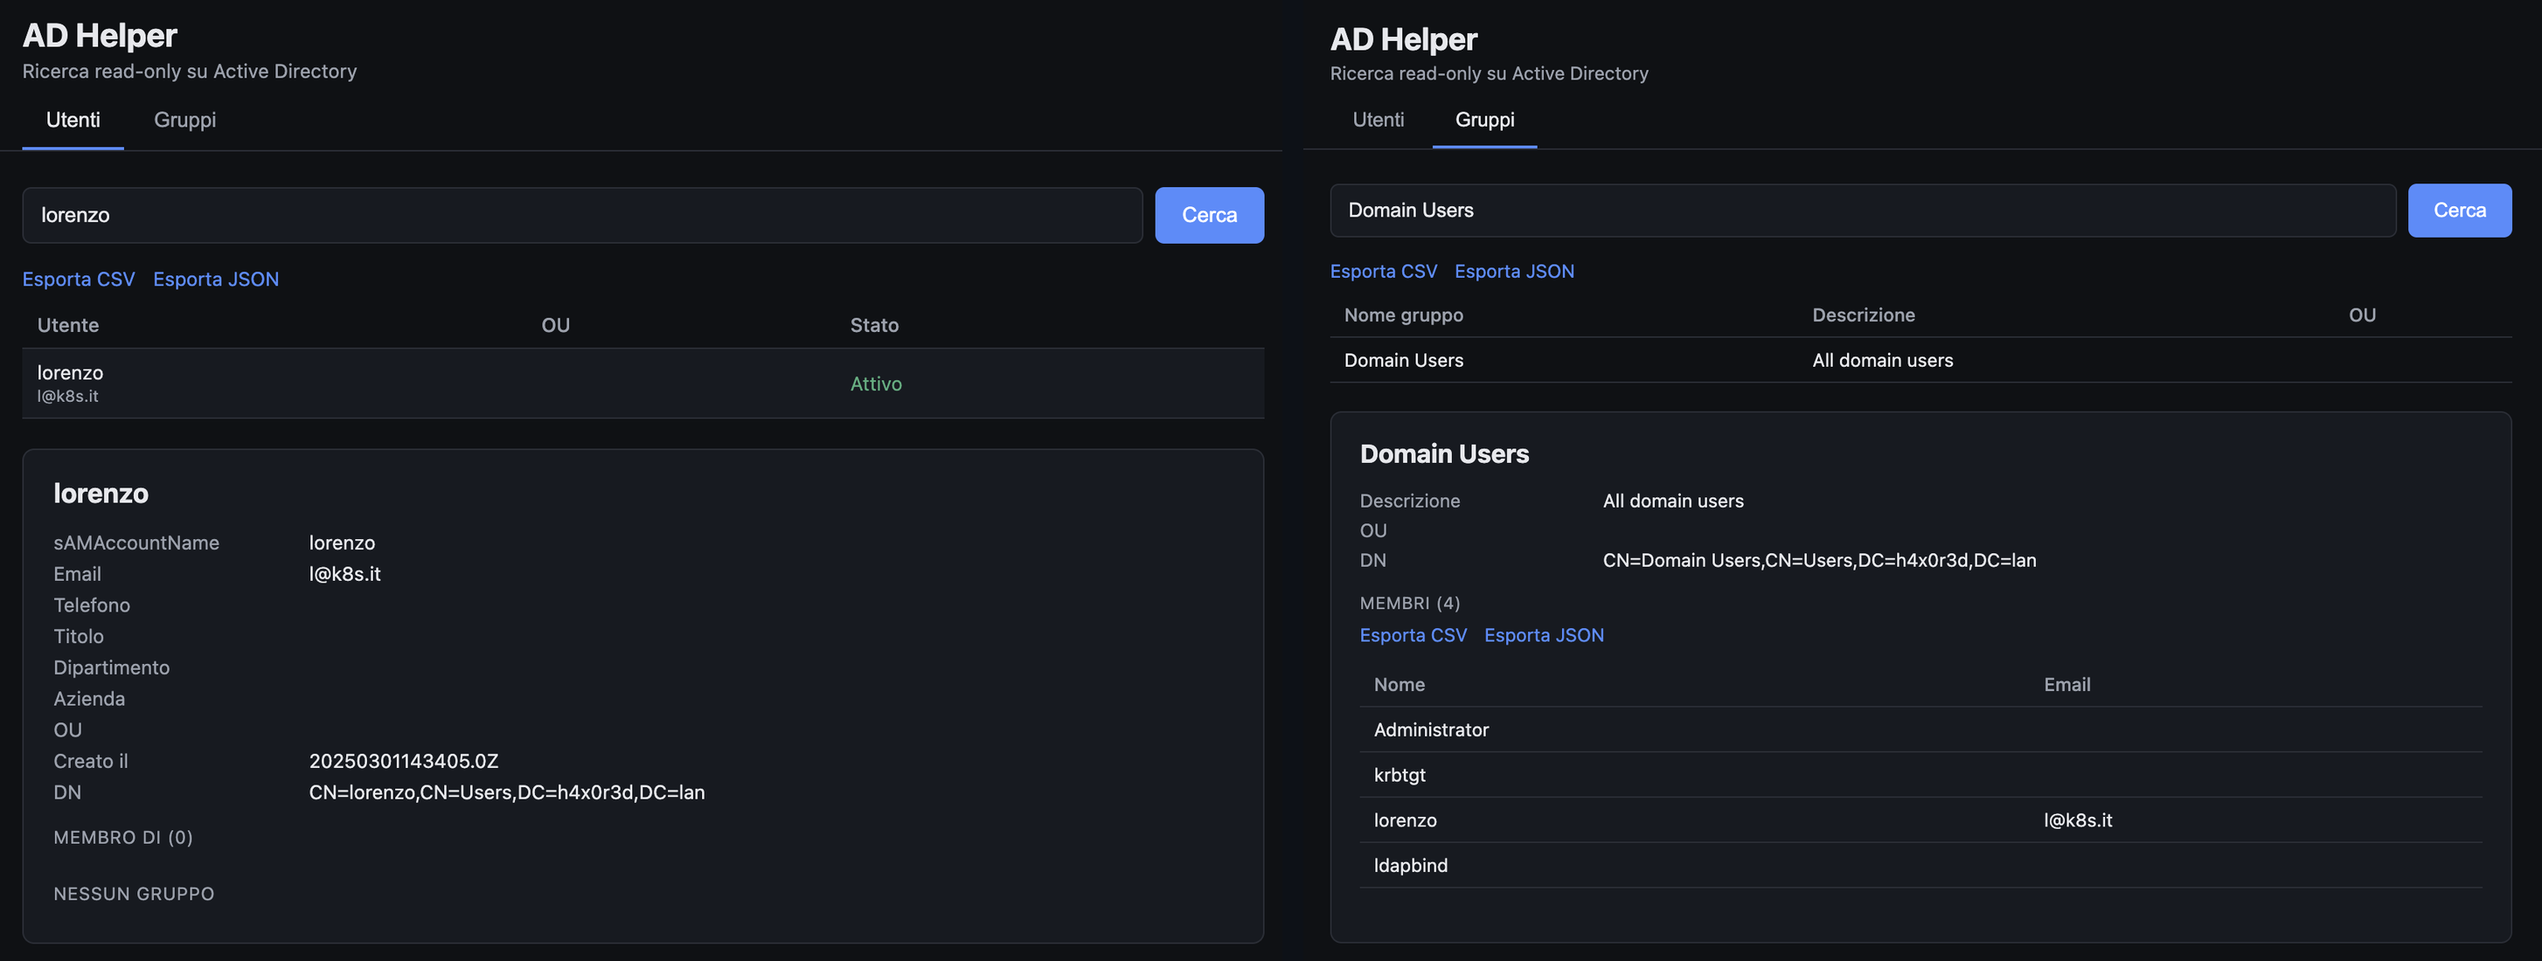
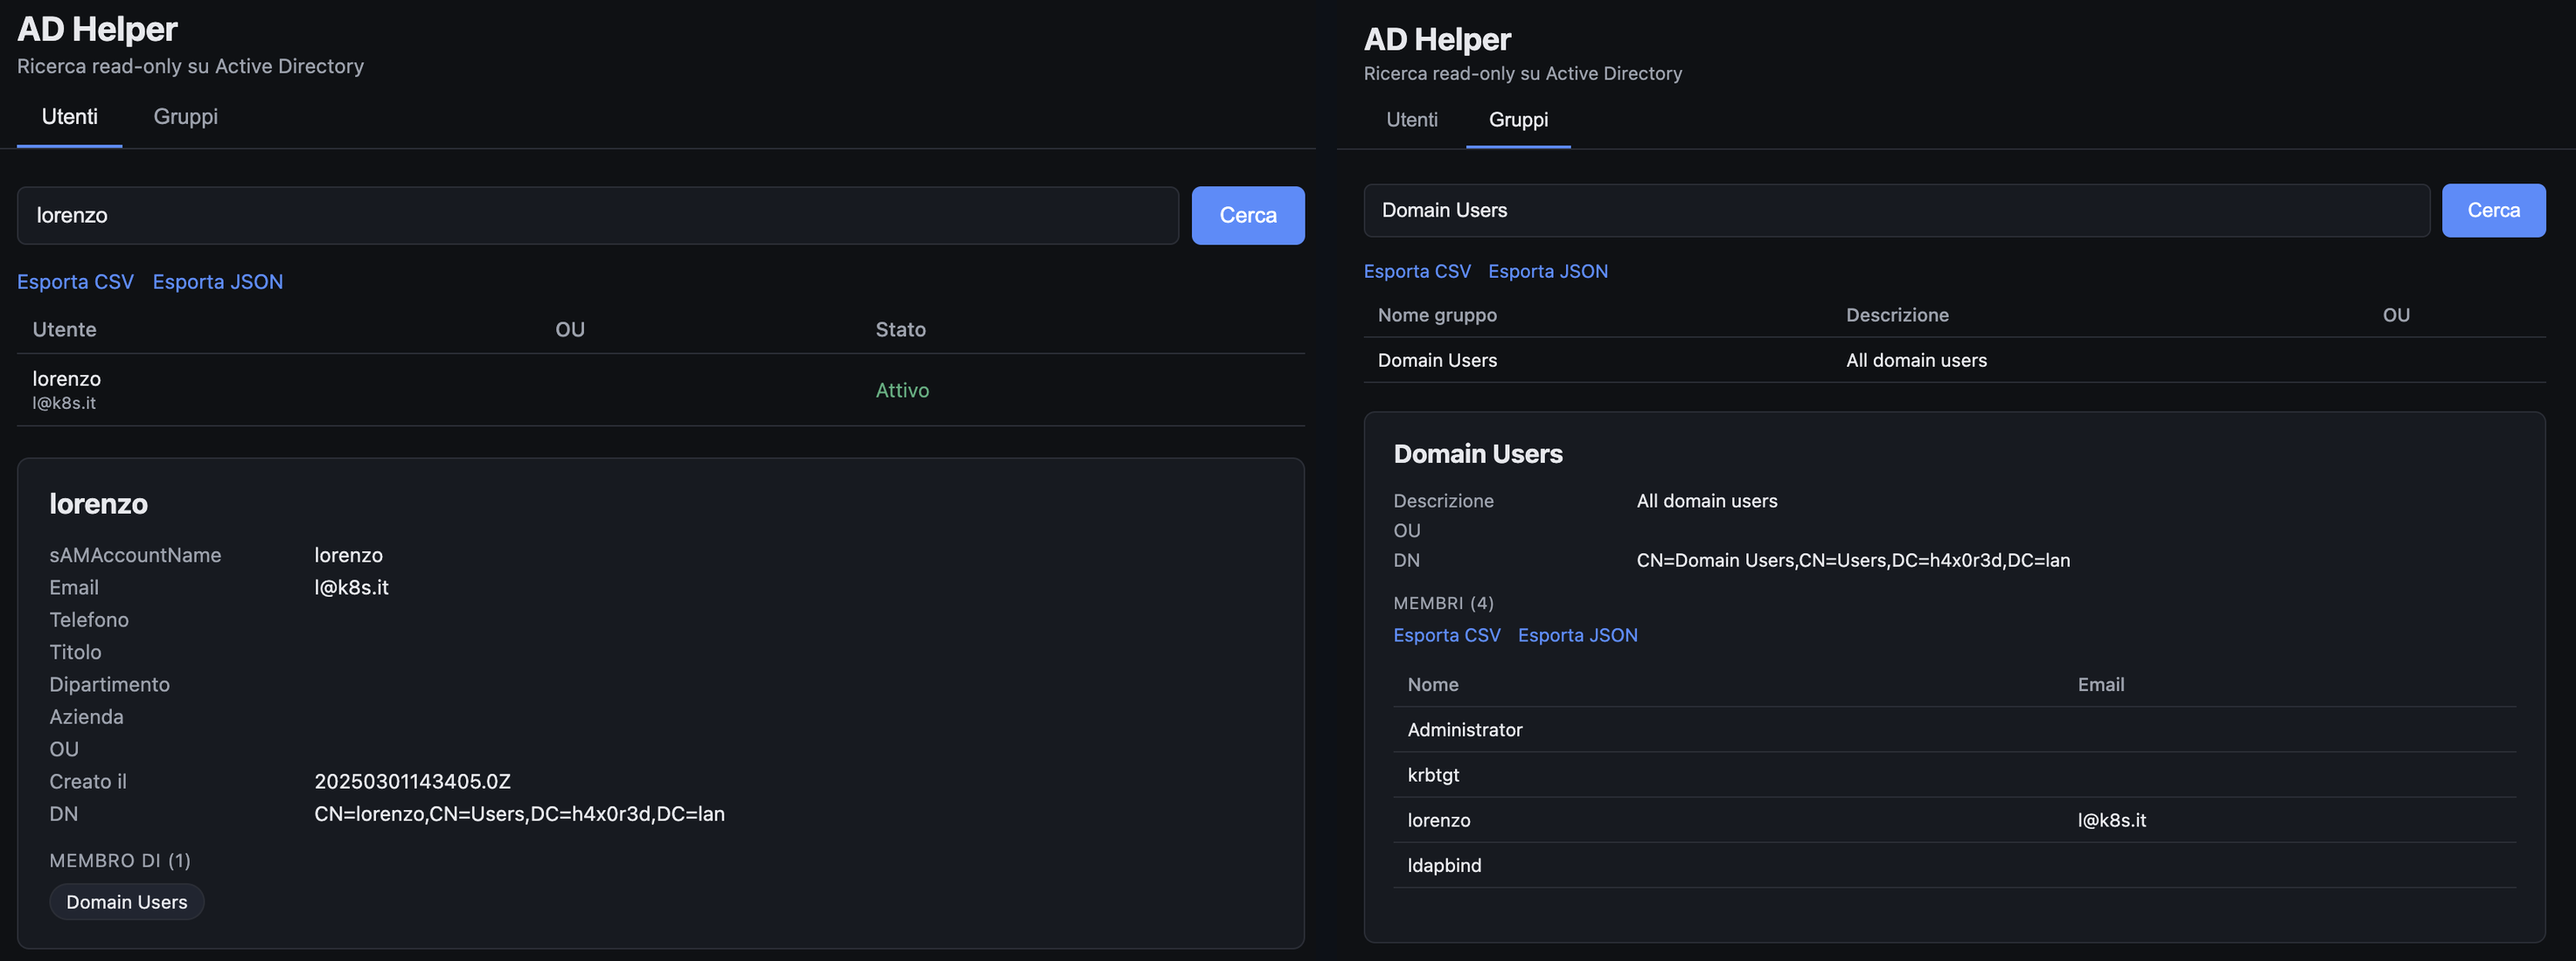
post(ad-helper): use updated screenshots, featured from the two side by side

diff --git a/content/posts/ad-helper-who-is-in-this-group-without-opening-a-ticket.md b/content/posts/ad-helper-who-is-in-this-group-without-opening-a-ticket.md
@@ -229,9 +229,9 @@ The API is usable from scripts too, which is handy for audits:
 curl -s "http://localhost:3080/api/groups/search.json?q=app-finance" | jq '.[].cn'
 ```
 
-![AD Helper: user detail on the left, Domain Users members on the right](/images/ad-helper-who-is-in-this-group-without-opening-a-ticket/ad-helper-user-and-group.png)
+![AD Helper showing the members of the Domain Users group](/images/ad-helper-who-is-in-this-group-without-opening-a-ticket/ad-helper-domain-users.png)
 
-User detail on the left, group members on the right, with CSV and JSON export one click away. Domain Users lists the same four accounts that the ADUC console shows.
+The group view lists the members with name and mail, with CSV and JSON export one click away. Domain Users shows the same four accounts that the ADUC console shows, including the ones that have it only as **primary group**, which AD does not list in the `member` attribute.
 
 ## Security Considerations
 
